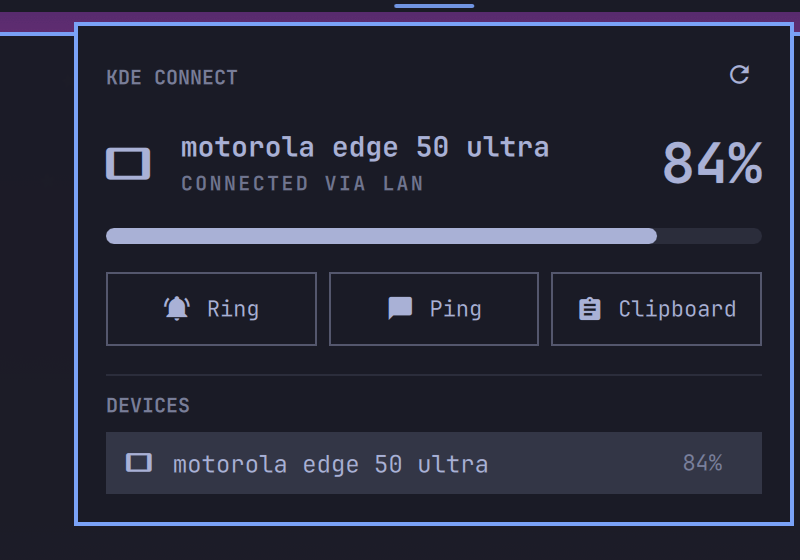
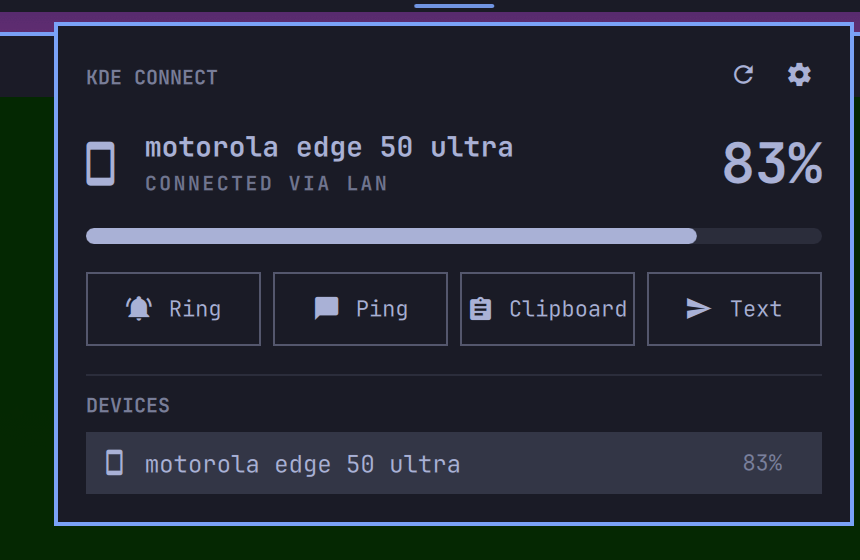
Settings card, Share Text action, portrait phone glyph
Gear in header opens display settings: battery-percentage toggle plus
per-action visibility (persisted as hiddenActions via the shell.json
entry). Share Text adds an inline input row (kdeconnect-cli --share-text,
user text as a single argv element). Tablet-type devices now use the
portrait phone glyph — the landscape tablet glyph read as a sideways
phone. dev-sync.sh + shell restart is the reliable reload path.

diff --git a/Panel.qml b/Panel.qml
@@ -59,22 +59,65 @@ Panel {
     return lines.join("\n")
   }
 
-  // ---- actions (capability-driven) ----
+  // ---- actions (capability-driven, user-hideable) ----
+  // Every action this plugin can offer; the settings card lists these, the
+  // action row shows the intersection with device capabilities and the
+  // user's hiddenActions preference.
+  readonly property var allActions: [
+    { key: "ring", cap: "ring", icon: "\u{f009e}", label: "Ring" },
+    { key: "ping", cap: "ping", icon: "\u{f0361}", label: "Ping" },
+    { key: "clipboard", cap: "clipboard", icon: "\u{f014d}", label: "Clipboard" },
+    { key: "sharetext", cap: "share", icon: "\u{f048a}", label: "Text" }
+  ]
+  readonly property var hiddenActions: setting("hiddenActions", []) || []
+
   readonly property var actionDefs: {
     var d = primary
     if (!d || !d.connected || !backendReady) return []
     var list = []
-    if (d.caps.ring) list.push({ key: "ring", icon: "\u{f009e}", label: "Ring" })
-    if (d.caps.ping) list.push({ key: "ping", icon: "\u{f0361}", label: "Ping" })
-    if (d.caps.clipboard) list.push({ key: "clipboard", icon: "\u{f014d}", label: "Clipboard" })
+    for (var i = 0; i < allActions.length; i++) {
+      var a = allActions[i]
+      if (d.caps[a.cap] && hiddenActions.indexOf(a.key) === -1) list.push(a)
+    }
     return list
   }
 
+  property bool shareOpen: false
+  property bool settingsOpen: false
+
   function runAction(key) {
     if (!primary) return
+    if (key === "sharetext") {
+      shareOpen = !shareOpen
+      if (shareOpen) Qt.callLater(function () { shareField.forceActiveFocus() })
+      return
+    }
     if (key === "ring") svc.ring(primary.id)
     else if (key === "ping") svc.ping(primary.id)
     else if (key === "clipboard") svc.sendClipboard(primary.id)
+  }
+
+  function sendShareText() {
+    var t = shareField.text
+    if (!t || !primary) return
+    svc.shareText(primary.id, t)
+    shareField.text = ""
+    shareOpen = false
+    keyCatcher.forceActiveFocus()
+  }
+
+  function togglePercentage() {
+    root.settings = Object.assign({}, root.settings, { showPercentage: !root.showPercentage })
+    if (root.bar && root.bar.shell) root.bar.shell.updateEntryInline(root.moduleName, root.settings)
+  }
+
+  function toggleHiddenAction(key) {
+    var arr = hiddenActions.slice()
+    var i = arr.indexOf(key)
+    if (i === -1) arr.push(key)
+    else arr.splice(i, 1)
+    root.settings = Object.assign({}, root.settings, { hiddenActions: arr })
+    if (root.bar && root.bar.shell) root.bar.shell.updateEntryInline(root.moduleName, root.settings)
   }
 
   readonly property string actionStatusText: {
@@ -86,10 +129,12 @@ Panel {
     if (a.status === "running") {
       if (a.kind === "ring") return "Ringing " + name + "…"
       if (a.kind === "ping") return "Pinging " + name + "…"
+      if (a.kind === "sharetext") return "Sending text…"
       return "Sending clipboard…"
     }
     if (a.status === "failed") return "Action failed"
     if (a.kind === "clipboard") return "Clipboard sent"
+    if (a.kind === "sharetext") return "Text sent"
     return "Done"
   }
 
@@ -196,6 +241,8 @@ Panel {
       focusSection = ""
       cursorIndex = 0
       unpairArmedId = ""
+      shareOpen = false
+      settingsOpen = false
     }
   }
 
@@ -222,12 +269,13 @@ Panel {
     bar: root.bar
     open: root.opened
     focusTarget: keyCatcher
-    contentWidth: panel.fittedContentWidth(Style.space(360))
+    contentWidth: panel.fittedContentWidth(Style.space(400))
     contentHeight: panel.fittedContentHeight(column.implicitHeight)
 
     PanelKeyCatcher {
       id: keyCatcher
       anchors.fill: parent
+      blocked: shareField.activeFocus
       onMoveRequested: function (dx, dy) { root.moveCursor(dx, dy) }
       onActivateRequested: root.activateCursor()
       onDeleteRequested: root.deleteCursor()
@@ -256,12 +304,24 @@ Panel {
           }
 
           PanelActionButton {
+            id: settingsBtn
+            iconText: "\u{f0493}"
+            tooltipText: "Display settings"
+            foreground: root.fg
+            fontFamily: root.ff
+            anchors.right: parent.right
+            anchors.verticalCenter: parent.verticalCenter
+            onClicked: root.settingsOpen = !root.settingsOpen
+          }
+
+          PanelActionButton {
             id: refreshBtn
             iconText: "\u{f0450}"
             tooltipText: "Search for devices"
             foreground: root.fg
             fontFamily: root.ff
-            anchors.right: parent.right
+            anchors.right: settingsBtn.left
+            anchors.rightMargin: Style.space(6)
             anchors.verticalCenter: parent.verticalCenter
             onClicked: svc.rediscover()
           }
@@ -604,6 +664,36 @@ Panel {
           }
         }
 
+        // ---------- share text input ----------
+        Row {
+          visible: root.shareOpen && root.primaryConnected
+          width: parent.width
+          spacing: Style.space(6)
+
+          TextField {
+            id: shareField
+            width: parent.width - sendBtn.width - parent.spacing
+            placeholderText: "Text or URL to send"
+            foreground: root.fg
+            font.family: root.ff
+            onAccepted: root.sendShareText()
+            Keys.onEscapePressed: {
+              root.shareOpen = false
+              keyCatcher.forceActiveFocus()
+            }
+          }
+
+          PanelActionButton {
+            id: sendBtn
+            iconText: "\u{f048a}"
+            tooltipText: "Send"
+            foreground: root.fg
+            fontFamily: root.ff
+            anchors.verticalCenter: parent.verticalCenter
+            onClicked: root.sendShareText()
+          }
+        }
+
         Text {
           visible: root.actionStatusText !== ""
           width: parent.width
@@ -637,6 +727,43 @@ Panel {
               dev: modelData
               rowIndex: index
               width: parent.width
+            }
+          }
+        }
+
+        // ---------- display settings ----------
+        Column {
+          visible: root.settingsOpen
+          width: parent.width
+          spacing: Style.space(6)
+
+          PanelSeparator { foreground: root.fg }
+
+          PanelSectionHeader {
+            text: "DISPLAY"
+            foreground: root.fg
+            fontFamily: root.ff
+          }
+
+          Toggle {
+            width: parent.width
+            label: "Battery percentage in bar"
+            checked: root.showPercentage
+            foreground: root.fg
+            fontFamily: root.ff
+            onClicked: root.togglePercentage()
+          }
+
+          Repeater {
+            model: root.allActions
+            Toggle {
+              required property var modelData
+              width: parent.width
+              label: modelData.label === "Text" ? "Share text" : modelData.label
+              checked: root.hiddenActions.indexOf(modelData.key) === -1
+              foreground: root.fg
+              fontFamily: root.ff
+              onClicked: root.toggleHiddenAction(modelData.key)
             }
           }
         }

diff --git a/Service.qml b/Service.qml
@@ -142,6 +142,8 @@ Item {
   function ring(id) { _cliAction("ring", id, ["kdeconnect-cli", "--ring", "--device", id]) }
   function ping(id) { _cliAction("ping", id, ["kdeconnect-cli", "--ping", "--device", id]) }
   function sendClipboard(id) { _cliAction("clipboard", id, ["kdeconnect-cli", "--send-clipboard", "--device", id]) }
+  // text is user input passed as a single argv element — never a shell string.
+  function shareText(id, text) { _cliAction("sharetext", id, ["kdeconnect-cli", "--share-text", text, "--device", id]) }
 
   function rediscover() {
     dbus.call(_daemonCall("forceOnNetworkChange"), function () { refresh() })

diff --git a/Model.js b/Model.js
@@ -192,7 +192,9 @@ function makeMonitorFilter() {
 var DEVICE_GLYPHS = {
   smartphone: "\u{f011c}", //  cellphone
   phone: "\u{f011c}",
-  tablet: "\u{f04f6}",     // 
+  // The landscape tablet glyph reads as a sideways phone at bar size, and
+  // KDE Connect reports many phones as "tablet" — use the portrait glyph.
+  tablet: "\u{f011c}",
   laptop: "\u{f0322}",     // 
   desktop: "\u{f07c0}",    // 
   tv: "\u{f0502}"          //  television
